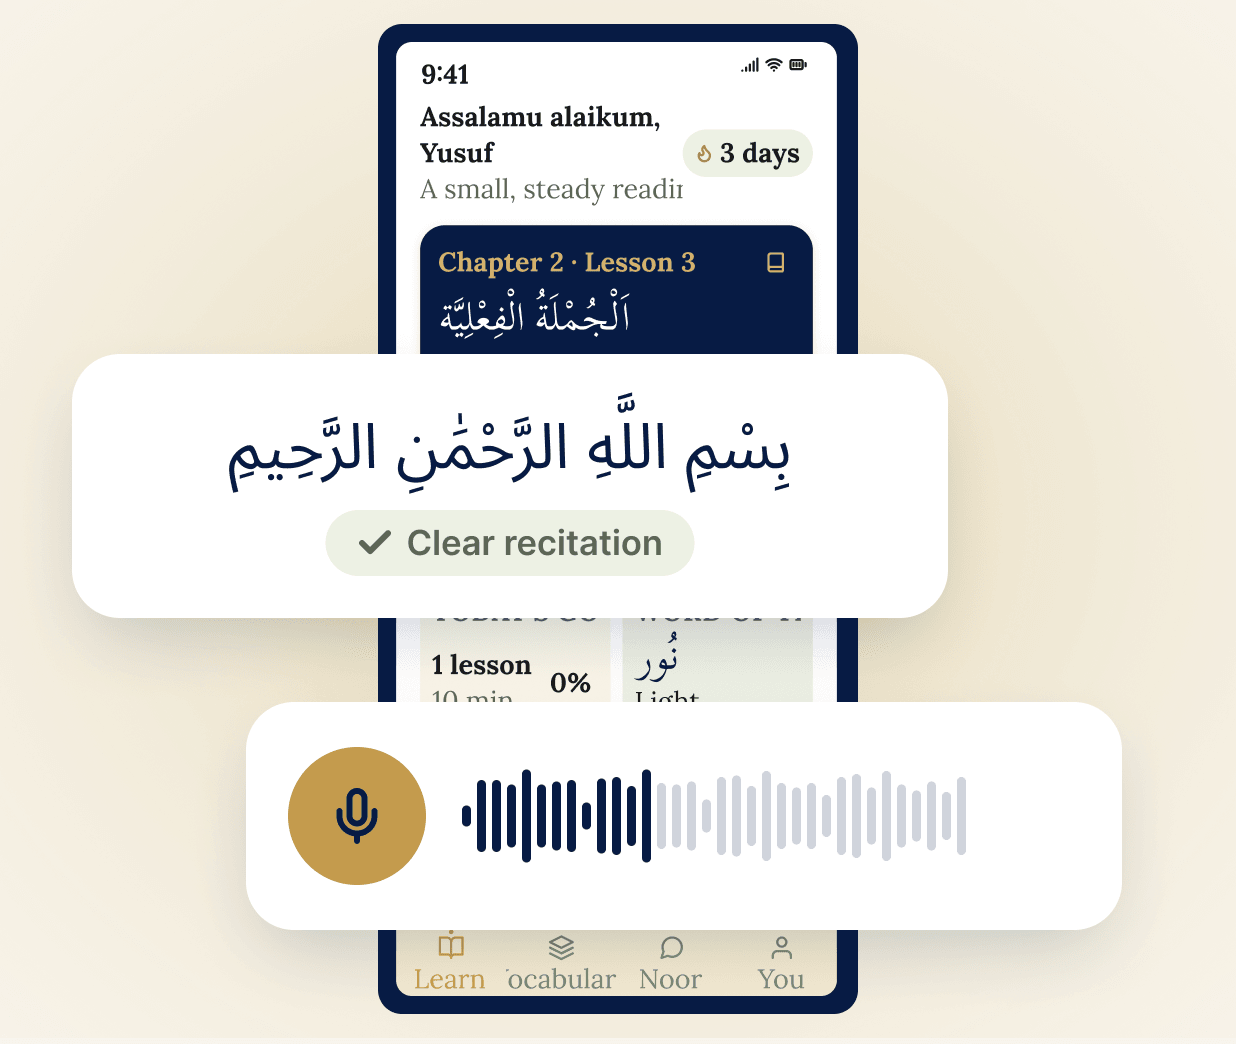
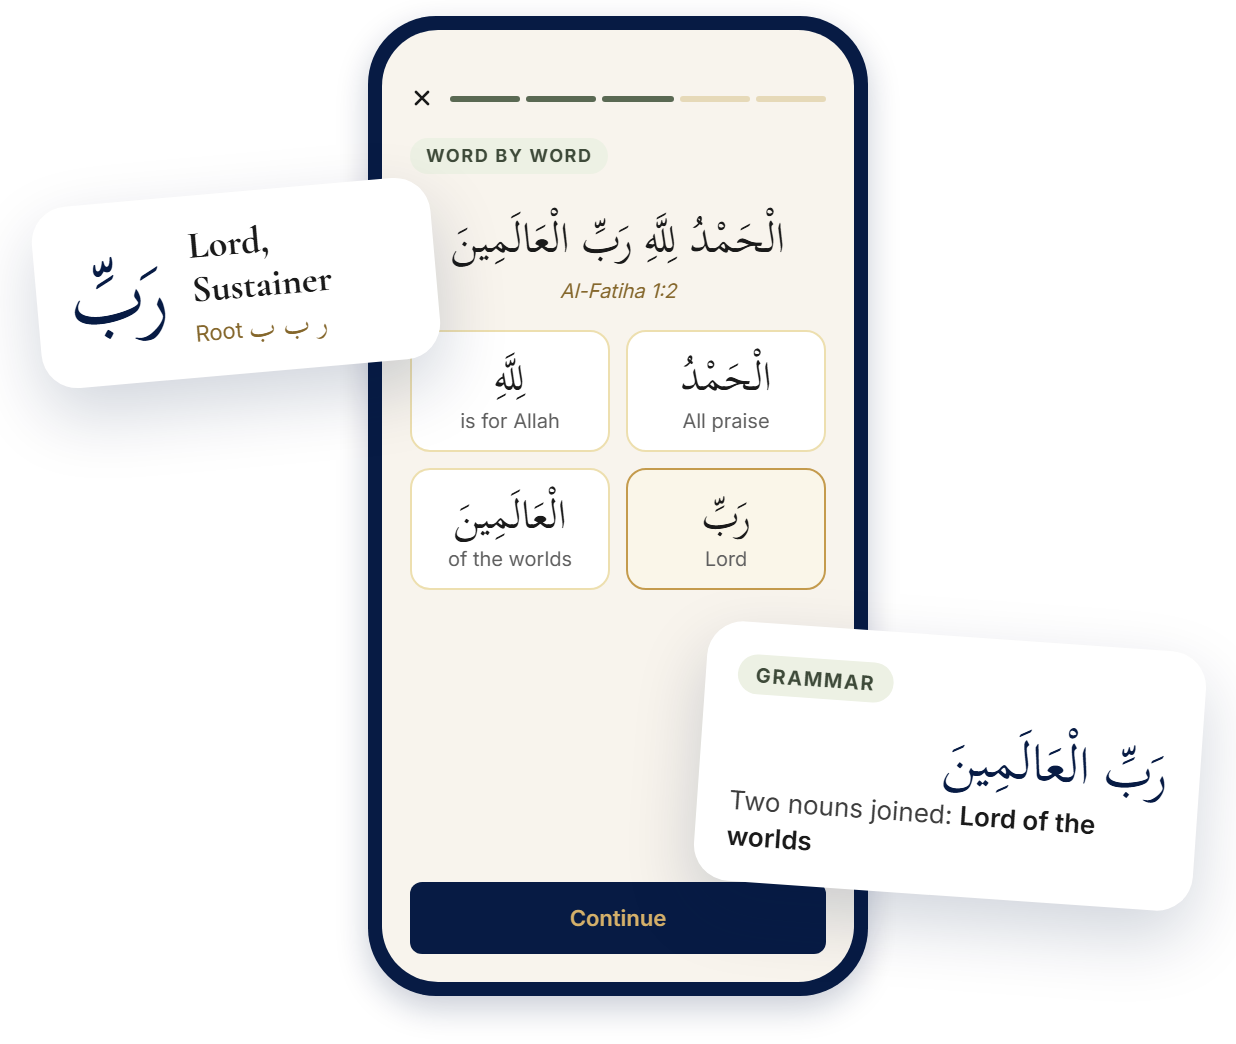
feat(app): three real welcome slides; cards drift gently on the laptop panel
Replaces the placeholder carousel (one repeated 'Learn to recite' line over
an old Learn mockup) with one feature per slide, designed on the Claude
Design canvas: understanding an ayah word by word, Conversation Lab, and
Vocabulary with Ustaad Noor. English and Urdu copy. The laptop sign-in
panel layers the phone and two card images and drifts the cards by under
a degree, out of step; reduced motion keeps them still.

Claude-Session: https://claude.ai/code/session_0135zSRjp7gzw9DXrT5aVWJh

diff --git a/warsh-app/components/WebAuthLayout.tsx b/warsh-app/components/WebAuthLayout.tsx
@@ -1,5 +1,15 @@
 import { useEffect, useState, type ReactNode } from "react";
-import { Image, Platform, StyleSheet, Text, useWindowDimensions, View } from "react-native";
+import {
+  AccessibilityInfo,
+  Animated,
+  Easing,
+  Image,
+  Platform,
+  StyleSheet,
+  Text,
+  useWindowDimensions,
+  View,
+} from "react-native";
 
 import { useT } from "@i18n/index";
 import { Fonts, FontSizes, LineHeights, Radii, Spacing, WarshPalette, WarshAlpha, WebLayout } from "../constants/theme";
@@ -14,73 +24,112 @@ export function useIsDesktopWeb() {
 
 const SLIDE_DURATION_MS = 5000;
 
-// Composited hero scene: the phone mockup plus two app-card cutouts
-// scattered on top at an angle, like they've been tossed onto the screen.
-const PHONE_ASPECT = 418 / 861;
-const PHONE_WIDTH = 168;
-const PHONE_HEIGHT = PHONE_WIDTH / PHONE_ASPECT;
+// Composited hero scene, designed on the Claude Design canvas (Welcome slides
+// page, WelcomeHero1-3): the phone, plus two floating cards exported as their
+// own images so each can drift very slightly. Coordinates are the canvas's,
+// in its 618 x 522 frame; each card image carries CARD_PAD of shadow per side.
+const ART_WIDTH = 618;
+const ART_HEIGHT = 522;
+const CARD_PAD = 44;
+const SCENE_WIDTH = 360;
+const SCALE = SCENE_WIDTH / ART_WIDTH;
+const SCENE_HEIGHT = ART_HEIGHT * SCALE;
 
-const CARD_ART = {
-  alifBaaTaa: { source: require("../assets/images/hero-card-alif-baa-taa.png"), aspect: 887 / 314 },
-  ayah: { source: require("../assets/images/hero-card-ayah.png"), aspect: 877 / 345 },
-  surah: { source: require("../assets/images/hero-card-surah.png"), aspect: 887 / 314 },
-  vocab: { source: require("../assets/images/hero-card-vocab.png"), aspect: 564 / 272 },
-} as const;
+type CardLayout = { source: number; left: number; top: number; width: number; height: number; rotate: number };
 
-type CardKey = keyof typeof CARD_ART;
-type CardLayout = { card: CardKey; width: number; top: number; left: number; rotate: string };
-
-const SCENE_WIDTH = 300;
-const SCENE_HEIGHT = 360;
-const PHONE_LEFT = (SCENE_WIDTH - PHONE_WIDTH) / 2;
-const PHONE_TOP = 10;
-
-const SLIDES: { key: string; cards: CardLayout[] }[] = [
+const SLIDES: { key: string; phone: number; cards: [CardLayout, CardLayout] }[] = [
   {
     key: "s1",
+    phone: require("../assets/images/welcome-slide-1-phone.png"),
     cards: [
-      { card: "alifBaaTaa", width: 186, top: 46, left: 2, rotate: "-7deg" },
-      { card: "surah", width: 172, top: 244, left: 112, rotate: "6deg" },
+      { source: require("../assets/images/welcome-slide-1-card1.png"), left: 18, top: 96, width: 200, height: 91, rotate: -5 },
+      { source: require("../assets/images/welcome-slide-1-card2.png"), left: 350, top: 318, width: 250, height: 130, rotate: 4 },
     ],
   },
   {
     key: "s2",
+    phone: require("../assets/images/welcome-slide-2-phone.png"),
     cards: [
-      { card: "ayah", width: 184, top: 40, left: 108, rotate: "6deg" },
-      { card: "vocab", width: 150, top: 250, left: 0, rotate: "-8deg" },
+      { source: require("../assets/images/welcome-slide-2-card1.png"), left: 388, top: 44, width: 214, height: 127, rotate: 5 },
+      { source: require("../assets/images/welcome-slide-2-card2.png"), left: 16, top: 316, width: 300, height: 122, rotate: -4 },
     ],
   },
   {
     key: "s3",
+    phone: require("../assets/images/welcome-slide-3-phone.png"),
     cards: [
-      { card: "vocab", width: 150, top: 44, left: 118, rotate: "8deg" },
-      { card: "alifBaaTaa", width: 186, top: 246, left: 6, rotate: "-6deg" },
+      { source: require("../assets/images/welcome-slide-3-card1.png"), left: 20, top: 74, width: 206, height: 72, rotate: -5 },
+      { source: require("../assets/images/welcome-slide-3-card2.png"), left: 344, top: 286, width: 258, height: 153, rotate: 4 },
     ],
   },
 ];
 
-function HeroScene({ cards }: { cards: CardLayout[] }) {
+// A very subtle wiggle: under a degree of tilt and a few pixels of drift,
+// with the two cards on different periods so they never move in step.
+const WIGGLE_DEGREES = 0.8;
+const WIGGLE_DRIFT = 3;
+const WIGGLE_PERIODS_MS = [2800, 3600];
+
+function FloatingCard({ card, index, still }: { card: CardLayout; index: number; still: boolean }) {
+  const [phase] = useState(() => new Animated.Value(0));
+
+  useEffect(() => {
+    if (still) return undefined;
+    const half = WIGGLE_PERIODS_MS[index] / 2;
+    const loop = Animated.loop(
+      Animated.sequence([
+        Animated.timing(phase, { toValue: 1, duration: half, easing: Easing.inOut(Easing.sin), useNativeDriver: false }),
+        Animated.timing(phase, { toValue: 0, duration: half, easing: Easing.inOut(Easing.sin), useNativeDriver: false }),
+      ])
+    );
+    loop.start();
+    return () => loop.stop();
+  }, [index, phase, still]);
+
+  const direction = index === 0 ? 1 : -1;
+  const rotate = phase.interpolate({
+    inputRange: [0, 1],
+    outputRange: [`${card.rotate - WIGGLE_DEGREES * direction}deg`, `${card.rotate + WIGGLE_DEGREES * direction}deg`],
+  });
+  const translateY = phase.interpolate({ inputRange: [0, 1], outputRange: [0, -WIGGLE_DRIFT] });
+
+  return (
+    <Animated.Image
+      source={card.source}
+      resizeMode="contain"
+      style={[
+        styles.card,
+        {
+          left: (card.left - CARD_PAD) * SCALE,
+          top: (card.top - CARD_PAD) * SCALE,
+          width: (card.width + CARD_PAD * 2) * SCALE,
+          height: (card.height + CARD_PAD * 2) * SCALE,
+          transform: [{ translateY }, { rotate }],
+        },
+      ]}
+    />
+  );
+}
+
+function HeroScene({ phone, cards }: { phone: number; cards: CardLayout[] }) {
+  const [reduceMotion, setReduceMotion] = useState(false);
+
+  useEffect(() => {
+    let active = true;
+    AccessibilityInfo.isReduceMotionEnabled().then((value) => {
+      if (active) setReduceMotion(value);
+    });
+    return () => {
+      active = false;
+    };
+  }, []);
+
   return (
     <View style={styles.scene}>
-      <Image
-        source={require("../assets/images/hero-phone.png")}
-        style={[styles.phone, { left: PHONE_LEFT, top: PHONE_TOP }]}
-        resizeMode="contain"
-      />
-      {cards.map(({ card, width, top, left, rotate }) => {
-        const art = CARD_ART[card];
-        return (
-          <Image
-            key={card}
-            source={art.source}
-            resizeMode="contain"
-            style={[
-              styles.card,
-              { width, height: width / art.aspect, top, left, transform: [{ rotate }] },
-            ]}
-          />
-        );
-      })}
+      <Image source={phone} style={styles.phone} resizeMode="contain" />
+      {cards.map((card, index) => (
+        <FloatingCard key={index} card={card} index={index} still={reduceMotion} />
+      ))}
     </View>
   );
 }
@@ -101,7 +150,7 @@ function BrandCarousel() {
   return (
     <View style={styles.carousel}>
       <View style={styles.slide}>
-        <HeroScene cards={slide.cards} />
+        <HeroScene key={slide.key} phone={slide.phone} cards={slide.cards} />
         <Text style={styles.title}>{t(`onboarding.slide${index + 1}Title`)}</Text>
         <Text style={styles.body}>{t(`onboarding.slide${index + 1}Body`)}</Text>
       </View>
@@ -161,8 +210,10 @@ const styles = StyleSheet.create({
   },
   phone: {
     position: "absolute",
-    width: PHONE_WIDTH,
-    height: PHONE_HEIGHT,
+    left: 0,
+    top: 0,
+    width: SCENE_WIDTH,
+    height: SCENE_HEIGHT,
   },
   card: {
     position: "absolute",

diff --git a/warsh-app/i18n/ur.ts b/warsh-app/i18n/ur.ts
@@ -1072,17 +1072,16 @@ export const ur = {
   "chapterTest.loadError": "باب کا امتحان لوڈ نہیں ہو سکا۔",
   "chapterTest.submitError": "جوابات جمع نہیں ہو سکے۔ براہ کرم دوبارہ کوشش کریں۔",
 
-  // PLACEHOLDER COPY — English text retained deliberately; slide copywriting
-  // (both languages) is a later pass. Structure is final; only values change.
-  "onboarding.slide1Title": "Learn to recite the Qur'an anywhere",
+  // Welcome slides: one feature each (Claude Design canvas, Welcome slides page).
+  "onboarding.slide1Title": "جس قرآن کی آپ تلاوت کرتے ہیں، اسے سمجھیں",
   "onboarding.slide1Body":
-    "Ustaad Noor walks you through every letter and word, one short lesson at a time.",
-  "onboarding.slide2Title": "Learn to recite the Qur'an anywhere",
+    "مختصر اسباق ہر آیت کے الفاظ اور قواعد سکھاتے ہیں۔",
+  "onboarding.slide2Title": "اعتماد سے عربی بولیں",
   "onboarding.slide2Body":
-    "Ustaad Noor walks you through every letter and word, one short lesson at a time.",
-  "onboarding.slide3Title": "Learn to recite the Qur'an anywhere",
+    "گفتگو لیب: ایک حقیقی گفتگو سنیں، پھر عربی میں بول کر جواب دیں۔",
+  "onboarding.slide3Title": "الفاظ جو یاد رہیں",
   "onboarding.slide3Body":
-    "Ustaad Noor walks you through every letter and word, one short lesson at a time.",
+    "قرآن کے سب سے عام الفاظ سیکھیں، اور جہاں اٹکیں وہاں استاد نور سے پوچھیں۔",
   "lab.pill": "گفتگو لیب",
   "lab.pillChapter": "گفتگو لیب · باب {{chapter}}",
   "lab.missionLabel": "آپ کا مشن",

diff --git a/warsh-app/i18n/en.ts b/warsh-app/i18n/en.ts
@@ -1072,17 +1072,16 @@ export const en = {
   "chapterTest.loadError": "Warsh could not load this chapter test.",
   "chapterTest.submitError": "Warsh could not submit your answers. Please try again.",
 
-  // PLACEHOLDER COPY — slides 2 and 3 reuse slide 1's text until copywriting
-  // lands (user decision 2026-08-16). Structure is final; only values change.
-  "onboarding.slide1Title": "Learn to recite the Quran anywhere",
+  // Welcome slides: one feature each (Claude Design canvas, Welcome slides page).
+  "onboarding.slide1Title": "Understand the Quran you recite",
   "onboarding.slide1Body":
-    "Ustaad Noor walks you through every letter and word, one short lesson at a time.",
-  "onboarding.slide2Title": "Learn to recite the Quran anywhere",
+    "Short lessons teach the words and grammar behind every ayah.",
+  "onboarding.slide2Title": "Speak Arabic with confidence",
   "onboarding.slide2Body":
-    "Ustaad Noor walks you through every letter and word, one short lesson at a time.",
-  "onboarding.slide3Title": "Learn to recite the Quran anywhere",
+    "Conversation Lab: listen to a real conversation, then answer out loud in Arabic.",
+  "onboarding.slide3Title": "Words that stay with you",
   "onboarding.slide3Body":
-    "Ustaad Noor walks you through every letter and word, one short lesson at a time.",
+    "Learn the most common Quranic words, and ask Ustaad Noor whenever you're stuck.",
   "lab.pill": "CONVERSATION LAB",
   "lab.pillChapter": "CONVERSATION LAB · CHAPTER {{chapter}}",
   "lab.missionLabel": "YOUR MISSION",

diff --git a/warsh-app/app/(auth)/auth-options.tsx b/warsh-app/app/(auth)/auth-options.tsx
@@ -33,7 +33,7 @@ import {
   WarshPalette,
 } from "../../constants/theme";
 
-// Hero art is a flat illustration exported from Figma at 3x (412 x 348).
+// Hero art: the Claude Design canvas welcome-slide images (Welcome slides page), 2x of 618 x 522.
 const HERO_ASPECT = 412 / 348;
 
 const SLIDES = [

diff --git a/Docs/warsh-status.md b/Docs/warsh-status.md
@@ -453,6 +453,20 @@ on the emulator.
 - Animations use the JS driver on purpose; the native driver was not verified for
   `setValue` during a drag.
 
+### Welcome slides — 2026-10-30
+
+**Designed on the Claude Design canvas (page "Welcome slides"), approved by the
+owner, implemented.** The three welcome slides were placeholders (one "Learn to
+recite" line repeated, an old Learn-screen mockup with a recitation badge the app
+does not have). Each slide now shows one real feature with its own text, in
+English and Urdu: understanding an ayah word by word, Conversation Lab (speaking),
+and Vocabulary with Ustaad Noor. The phone welcome screen uses the full picture
+(`onboarding-hero-1..3.png`); the laptop sign-in panel layers the phone and two
+card images (`welcome-slide-N-phone/card1/card2.png`) and the cards drift by under
+a degree and a few pixels, out of step, unless the system asks for reduced motion.
+Images are exported from the canvas boards `WelcomeHero1-3` at 2x. Android picks
+this up in the next Play release.
+
 ### App-language picker hidden — 2026-10-30
 
 **Owner decision, design step skipped by the owner.** Production had 25 accounts on
